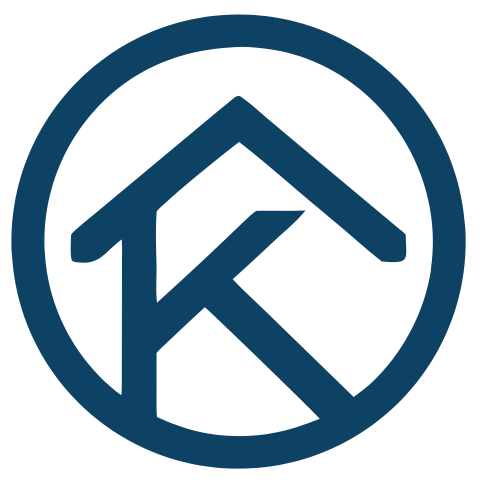
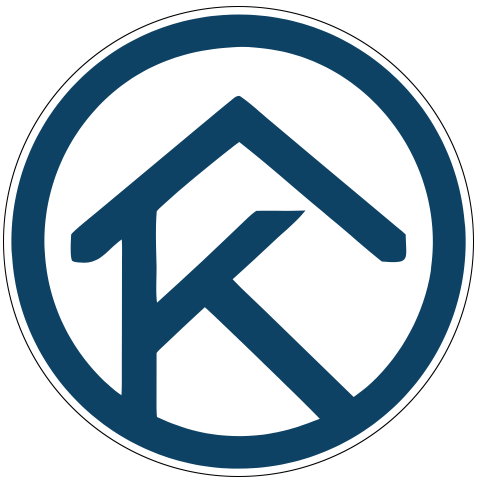
mise a jour

diff --git a/resources/views/welcome.blade.php b/resources/views/welcome.blade.php
@@ -40,14 +40,6 @@
                         >
                             Log in
                         </a>
-
-                        @if (Route::has('register'))
-                            <a
-                                href="{{ route('register') }}"
-                                class="inline-block px-5 py-1.5 dark:text-[#EDEDEC] border-[#19140035] hover:border-[#1915014a] border text-[#1b1b18] dark:border-[#3E3E3A] dark:hover:border-[#62605b] rounded-sm text-sm leading-normal">
-                                Register
-                            </a>
-                        @endif
                     @endauth
                 </nav>
             @endif
@@ -121,9 +113,14 @@
                         </li>
                     </ul>
                 </div>
-                <div class="bg-[#fff2f2] dark:bg-[#1D0002] relative lg:-ml-px -mb-px lg:mb-0 rounded-t-lg lg:rounded-t-none lg:rounded-r-lg aspect-[335/376] lg:aspect-auto w-full lg:w-[438px] shrink-0 overflow-hidden">
-                    {{-- Laravel Logo --}}
-                    <svg class="w-full text-[#F53003] dark:text-[#F61500] transition-all translate-y-0 opacity-100 max-w-none duration-750 starting:opacity-0 starting:translate-y-6" viewBox="0 0 438 104" fill="none" xmlns="http://www.w3.org/2000/svg">
+                <div class="bg-[#fff2f2] dark:bg-[#1D0002] relative lg:-ml-px -mb-px lg:mb-0 rounded-t-lg lg:rounded-t-none lg:rounded-r-lg aspect-[335/376] lg:aspect-auto w-full lg:w-[438px] shrink-0 overflow-hidden flex items-center justify-center">
+                    {{-- Kaypa Logo et texte --}}
+                    <div class="flex flex-col items-center gap-4">
+                        <img src="{{ asset('kaypa.png') }}" alt="Kaypa" class="w-32 h-32 lg:w-40 lg:h-40">
+                        <h1 class="text-4xl lg:text-5xl font-bold text-[#1b1b18] dark:text-[#EDEDEC]">Kaypa</h1>
+                    </div>
+                    {{-- Ancien Laravel Logo caché --}}
+                    <svg class="hidden w-full text-[#F53003] dark:text-[#F61500] transition-all translate-y-0 opacity-100 max-w-none duration-750 starting:opacity-0 starting:translate-y-6" viewBox="0 0 438 104" fill="none" xmlns="http://www.w3.org/2000/svg">
                         <path d="M17.2036 -3H0V102.197H49.5189V86.7187H17.2036V-3Z" fill="currentColor" />
                         <path d="M110.256 41.6337C108.061 38.1275 104.945 35.3731 100.905 33.3681C96.8667 31.3647 92.8016 30.3618 88.7131 30.3618C83.4247 30.3618 78.5885 31.3389 74.201 33.2923C69.8111 35.2456 66.0474 37.928 62.9059 41.3333C59.7643 44.7401 57.3198 48.6726 55.5754 53.1293C53.8287 57.589 52.9572 62.274 52.9572 67.1813C52.9572 72.1925 53.8287 76.8995 55.5754 81.3069C57.3191 85.7173 59.7636 89.6241 62.9059 93.0293C66.0474 96.4361 69.8119 99.1155 74.201 101.069C78.5885 103.022 83.4247 103.999 88.7131 103.999C92.8016 103.999 96.8667 102.997 100.905 100.994C104.945 98.9911 108.061 96.2359 110.256 92.7282V102.195H126.563V32.1642H110.256V41.6337ZM108.76 75.7472C107.762 78.4531 106.366 80.8078 104.572 82.8112C102.776 84.8161 100.606 86.4183 98.0637 87.6206C95.5202 88.823 92.7004 89.4238 89.6103 89.4238C86.5178 89.4238 83.7252 88.823 81.2324 87.6206C78.7388 86.4183 76.5949 84.8161 74.7998 82.8112C73.004 80.8078 71.6319 78.4531 70.6856 75.7472C69.7356 73.0421 69.2644 70.1868 69.2644 67.1821C69.2644 64.1758 69.7356 61.3205 70.6856 58.6154C71.6319 55.9102 73.004 53.5571 74.7998 51.5522C76.5949 49.5495 78.738 47.9451 81.2324 46.7427C83.7252 45.5404 86.5178 44.9396 89.6103 44.9396C92.7012 44.9396 95.5202 45.5404 98.0637 46.7427C100.606 47.9451 102.776 49.5487 104.572 51.5522C106.367 53.5571 107.762 55.9102 108.76 58.6154C109.756 61.3205 110.256 64.1758 110.256 67.1821C110.256 70.1868 109.756 73.0421 108.76 75.7472Z" fill="currentColor" />
                         <path d="M242.805 41.6337C240.611 38.1275 237.494 35.3731 233.455 33.3681C229.416 31.3647 225.351 30.3618 221.262 30.3618C215.974 30.3618 211.138 31.3389 206.75 33.2923C202.36 35.2456 198.597 37.928 195.455 41.3333C192.314 44.7401 189.869 48.6726 188.125 53.1293C186.378 57.589 185.507 62.274 185.507 67.1813C185.507 72.1925 186.378 76.8995 188.125 81.3069C189.868 85.7173 192.313 89.6241 195.455 93.0293C198.597 96.4361 202.361 99.1155 206.75 101.069C211.138 103.022 215.974 103.999 221.262 103.999C225.351 103.999 229.416 102.997 233.455 100.994C237.494 98.9911 240.611 96.2359 242.805 92.7282V102.195H259.112V32.1642H242.805V41.6337ZM241.31 75.7472C240.312 78.4531 238.916 80.8078 237.122 82.8112C235.326 84.8161 233.156 86.4183 230.614 87.6206C228.07 88.823 225.251 89.4238 222.16 89.4238C219.068 89.4238 216.275 88.823 213.782 87.6206C211.289 86.4183 209.145 84.8161 207.35 82.8112C205.554 80.8078 204.182 78.4531 203.236 75.7472C202.286 73.0421 201.814 70.1868 201.814 67.1821C201.814 64.1758 202.286 61.3205 203.236 58.6154C204.182 55.9102 205.554 53.5571 207.35 51.5522C209.145 49.5495 211.288 47.9451 213.782 46.7427C216.275 45.5404 219.068 44.9396 222.16 44.9396C225.251 44.9396 228.07 45.5404 230.614 46.7427C233.156 47.9451 235.326 49.5487 237.122 51.5522C238.917 53.5571 240.312 55.9102 241.31 58.6154C242.306 61.3205 242.806 64.1758 242.806 67.1821C242.805 70.1868 242.305 73.0421 241.31 75.7472Z" fill="currentColor" />

diff --git a/resources/views/welcome-kaypa.blade.php b/resources/views/welcome-kaypa.blade.php
@@ -13,9 +13,7 @@
             <div class="flex justify-between items-center h-16">
                 <!-- Logo -->
                 <div class="flex items-center">
-                    <svg class="w-10 h-10 text-blue-600" fill="none" stroke="currentColor" viewBox="0 0 24 24">
-                        <path stroke-linecap="round" stroke-linejoin="round" stroke-width="2" d="M12 8c-1.657 0-3 .895-3 2s1.343 2 3 2 3 .895 3 2-1.343 2-3 2m0-8c1.11 0 2.08.402 2.599 1M12 8V7m0 1v8m0 0v1m0-1c-1.11 0-2.08-.402-2.599-1M21 12a9 9 0 11-18 0 9 9 0 0118 0z"/>
-                    </svg>
+                    <img src="{{ asset('kaypa.png') }}" alt="Kaypa Logo" class="w-10 h-10">
                     <span class="ml-3 text-xl font-bold text-gray-900 dark:text-white">KAYPA</span>
                     <span class="ml-2 px-2 py-1 text-xs font-semibold text-blue-600 bg-blue-100 dark:bg-blue-900 dark:text-blue-300 rounded">v2.0</span>
                 </div>
@@ -30,11 +28,6 @@
                         <a href="{{ route('login') }}" class="px-4 py-2 text-sm font-medium text-gray-700 dark:text-gray-300 hover:text-blue-600 dark:hover:text-blue-400 transition">
                             Connexion
                         </a>
-                        @if (Route::has('register'))
-                            <a href="{{ route('register') }}" class="px-4 py-2 text-sm font-medium text-white bg-blue-600 rounded-lg hover:bg-blue-700 transition">
-                                Créer un compte
-                            </a>
-                        @endif
                     @endauth
                 </div>
             </div>
@@ -62,9 +55,6 @@
                     @else
                         <a href="{{ route('login') }}" class="px-8 py-3 text-lg font-semibold text-white bg-blue-600 rounded-lg hover:bg-blue-700 shadow-lg hover:shadow-xl transform hover:-translate-y-1 transition-all">
                             Se Connecter
-                        </a>
-                        <a href="{{ route('register') }}" class="px-8 py-3 text-lg font-semibold text-blue-600 bg-white dark:bg-gray-800 dark:text-blue-400 rounded-lg hover:bg-gray-50 dark:hover:bg-gray-700 shadow-lg hover:shadow-xl transform hover:-translate-y-1 transition-all border-2 border-blue-600">
-                            S'Inscrire
                         </a>
                     @endauth
                 </div>

diff --git a/resources/views/layouts/guest.blade.php b/resources/views/layouts/guest.blade.php
@@ -7,6 +7,9 @@
 
         <title>{{ config('app.name', 'Laravel') }}</title>
 
+        <!-- Favicon -->
+        <link rel="icon" type="image/png" href="{{ asset('kaypa.png') }}">
+
         <!-- Fonts -->
         <link rel="preconnect" href="https://fonts.bunny.net">
         <link href="https://fonts.bunny.net/css?family=figtree:400,500,600&display=swap" rel="stylesheet" />
@@ -18,7 +21,7 @@
         <div class="min-h-screen flex flex-col sm:justify-center items-center pt-6 sm:pt-0 bg-gray-100 dark:bg-gray-900">
             <div>
                 <a href="/">
-                    <x-application-logo class="w-20 h-20 fill-current text-gray-500" />
+                    <img src="{{ asset('kaypa.png') }}" alt="Kaypa Logo" class="w-20 h-20">
                 </a>
             </div>
 

diff --git a/resources/views/layouts/navigation.blade.php b/resources/views/layouts/navigation.blade.php
@@ -6,7 +6,7 @@
                 <!-- Logo -->
                 <div class="shrink-0 flex items-center">
                     <a href="{{ route('dashboard') }}">
-                        <x-application-logo class="block h-9 w-auto fill-current text-gray-800 dark:text-gray-200" />
+                        <img src="{{ asset('kaypa.png') }}" alt="Kaypa Logo" class="block h-9 w-auto">
                     </a>
                 </div>
 

diff --git a/resources/views/layouts/app.blade.php b/resources/views/layouts/app.blade.php
@@ -7,6 +7,9 @@
 
         <title>{{ config('app.name', 'Laravel') }}</title>
 
+        <!-- Favicon -->
+        <link rel="icon" type="image/png" href="{{ asset('kaypa.png') }}">
+
         <!-- Fonts -->
         <link rel="preconnect" href="https://fonts.bunny.net">
         <link href="https://fonts.bunny.net/css?family=figtree:400,500,600&display=swap" rel="stylesheet" />
